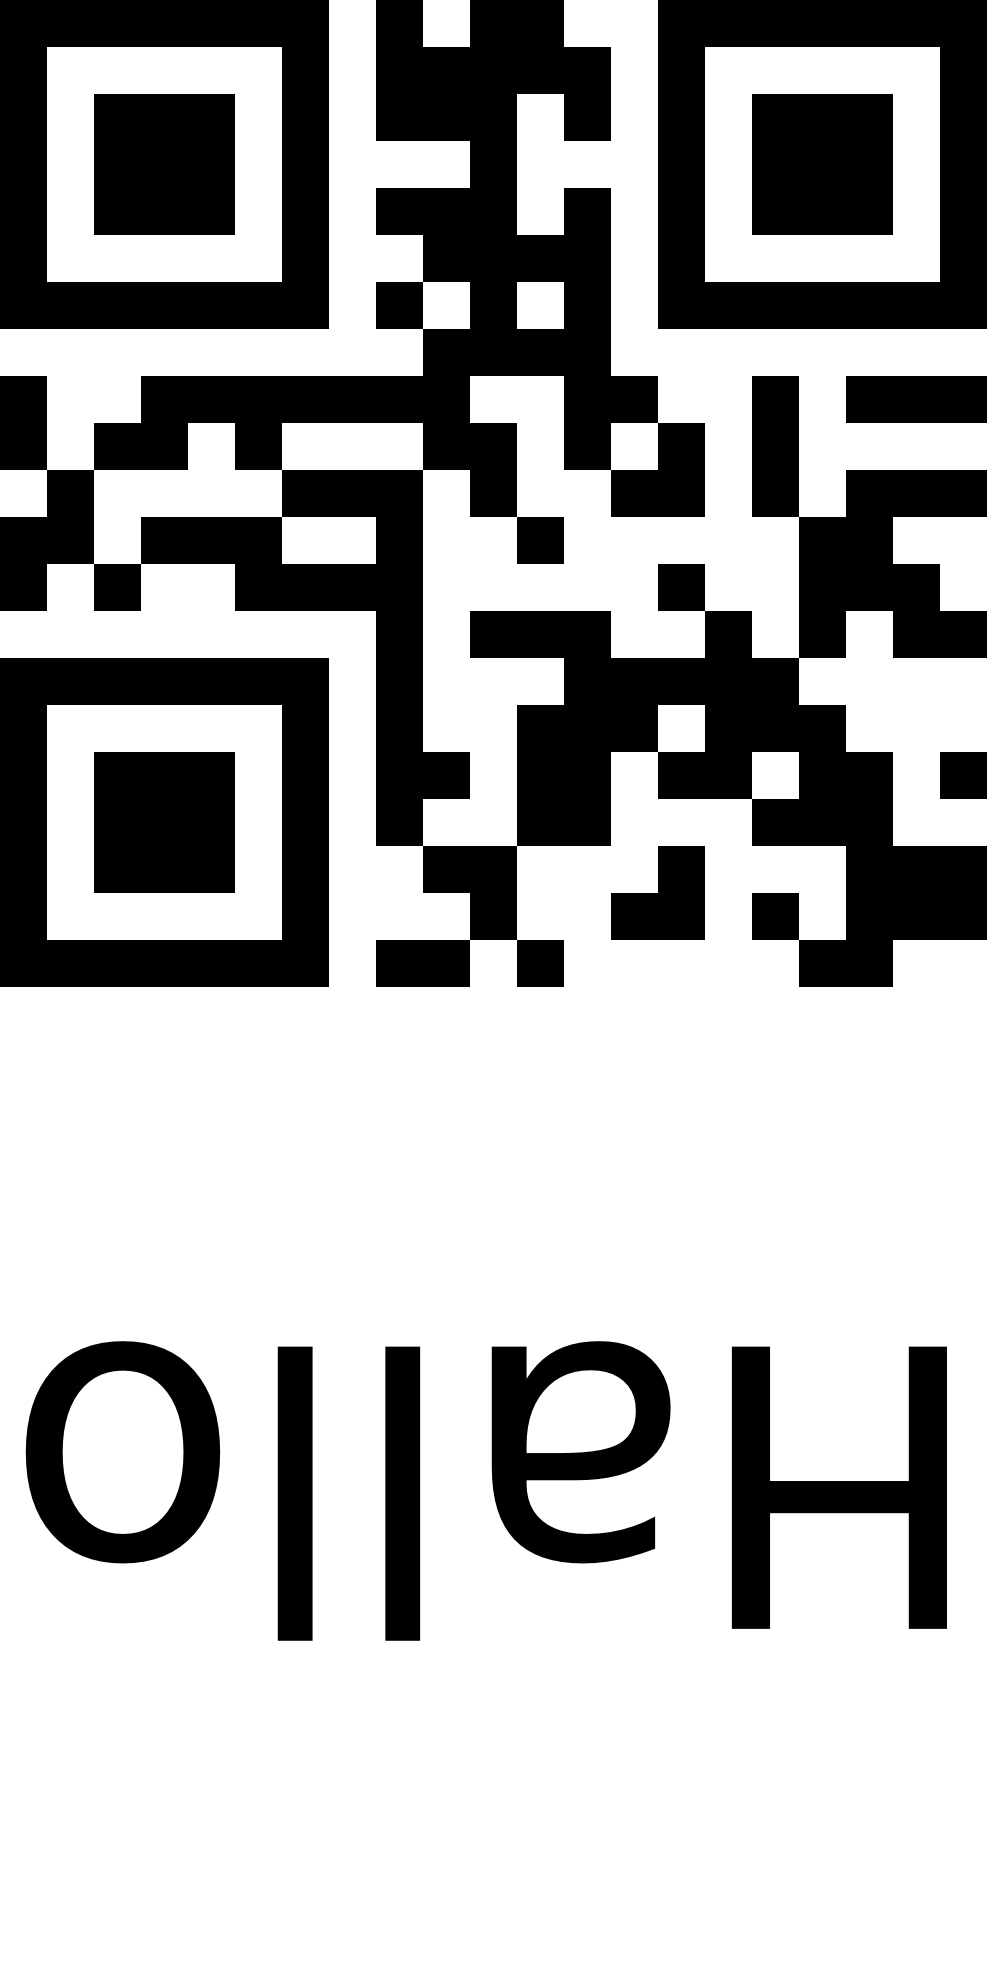
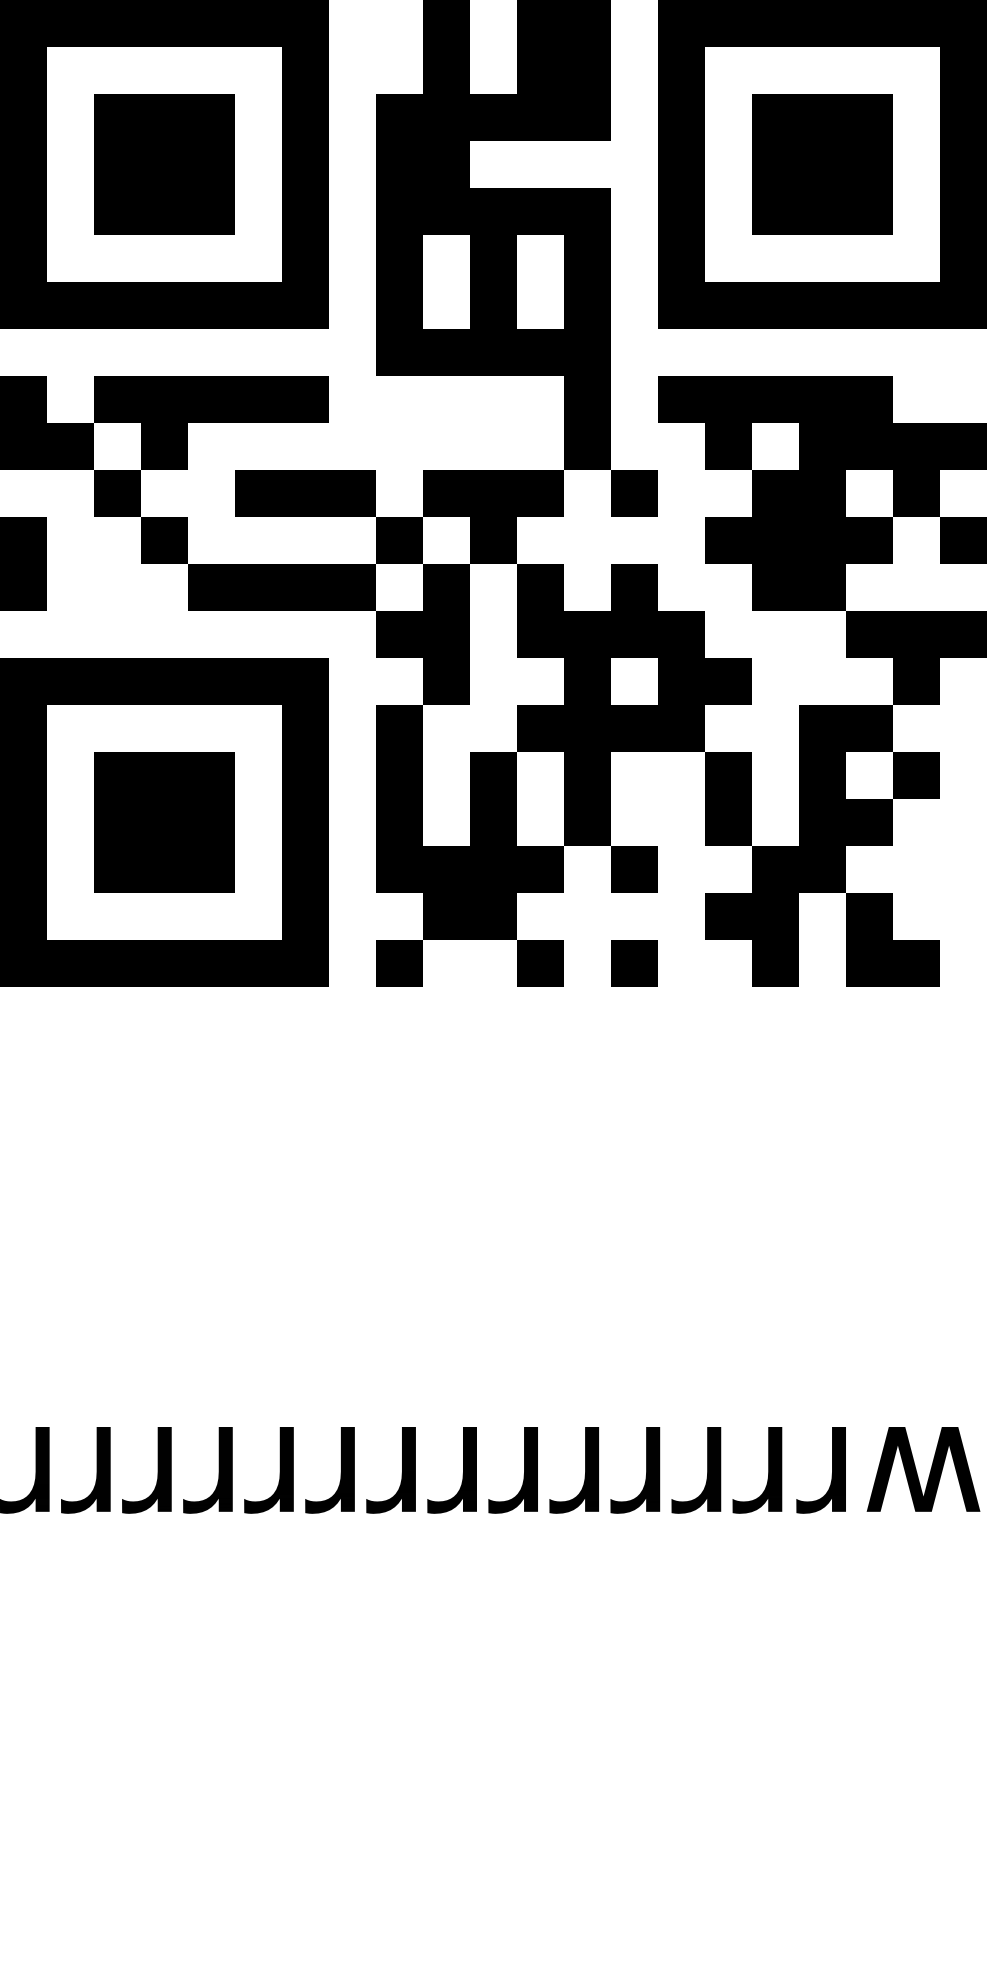
update dependencies, add label preview functionality, and adjust project edition

diff --git a/src/index.html b/src/index.html
@@ -6,20 +6,47 @@
 </head>
 <body>
 <div style="justify-content: center; display: flex; flex-direction: column; align-items: center;">
-    <img alt="preview" src="/last" width="20%"/>
+    <img alt="preview" id="prev" src="/last" width="20%"/>
     <div style="justify-content: center; display: flex; flex-direction: column; align-items: center;">
         <label for="labelText">Label Text:</label>
         <input id="labelText" name="labelText" required type="text">
         <label for="labelQrText">QR Code Text:</label>
         <input id="labelQrText" name="labelQrText" required type="text">
         <button id="submit" type="submit">Print Label</button>
+        <button id="preview">Preview</button>
     </div>
 </div>
 </body>
 
 
 <script>
+    const prev = document.getElementById('prev');
+    prev.src = "/last?" + new Date().getTime();
+
     const submit = document.getElementById('submit');
+    const preview = document.getElementById('preview');
+
+    preview.addEventListener('click', (event) => {
+        event.preventDefault();
+        const labelText = document.getElementById('labelText').value;
+        const labelQrText = document.getElementById('labelQrText').value;
+        fetch('/preview', {
+            method: 'POST',
+            headers: {
+                'Content-Type': 'application/json'
+            },
+            body: JSON.stringify({name: labelText, qr: labelQrText})
+        }).then(response => {
+            if (response.ok) {
+                window.location.reload();
+            } else {
+                alert('Failed to print label.');
+            }
+        }).catch(error => {
+            console.error('Error:', error);
+            alert('An error occurred while printing the label.');
+        });
+    });
 
     submit.addEventListener('click', (event) => {
         event.preventDefault();

diff --git a/src/main.rs b/src/main.rs
@@ -2,6 +2,7 @@ use ab_glyph::{FontRef, PxScale};
 use actix_files::NamedFile;
 use clap;
 use qrcode::QrCode;
+use std::process::Command;
 
 use actix_web::{get, post, web, App, HttpResponse, HttpServer, Responder};
 use clap::Parser;
@@ -25,6 +26,77 @@ async fn index() -> impl Responder {
 #[get("/last")]
 async fn last() -> impl Responder {
     NamedFile::open("./label.png")
+}
+
+#[post("/preview")]
+async fn preview(json: web::Json<LabelInfo>) -> impl Responder {
+    let mut width = 1000;
+
+    let bits = json.qr.clone();
+    let code = QrCode::new(bits).unwrap();
+
+    let qr = code
+        .render::<Luma<u8>>()
+        .quiet_zone(false)
+        .max_dimensions(width, width)
+        .build();
+
+    let raw_qr = qr.as_raw();
+    let qr_dim = qr.height();
+    width = qr_dim;
+
+    let mut label_image_buf = ImageBuffer::new(width, width * 2);
+
+    let font = FontRef::try_from_slice(include_bytes!("../DejaVuSans.ttf")).unwrap();
+
+    let mut s = width as f32;
+    let mut scale = PxScale::from(s);
+    while text_size(scale, &font, &json.name).0 > width {
+        let new_size = s * 0.99;
+        if new_size < 1.0 {
+            break;
+        }
+        s = new_size;
+        scale = PxScale::from(s);
+    }
+
+    let final_size = text_size(scale, &font, &json.name);
+    let mut text_image = ImageBuffer::new(width, width * 2);
+
+    draw_text_mut(
+        &mut text_image,
+        image::Rgb([255u8, 255u8, 255u8]),
+        ((width - final_size.0) / 2) as i32,
+        (width + width / 2 - final_size.1 / 2) as i32,
+        scale,
+        &font,
+        &json.name,
+    );
+    let raw_text = text_image.pixels().collect::<Vec<_>>();
+
+    let height = width * 2;
+
+    label_image_buf
+        .enumerate_pixels_mut()
+        .for_each(|(x, y, pixel)| {
+            if y < width {
+                let mut raw = 255u8;
+                let pos = y * width + x;
+                if pos < raw_qr.len() as u32 {
+                    raw = raw_qr[(x + width * y) as usize];
+                }
+
+                *pixel = image::Rgb([raw, raw, raw]);
+            } else {
+                let col = 255u8
+                    - raw_text[(width - x + width * (height - y + width - 1) - 1) as usize].0[0];
+                *pixel = image::Rgb([col, col, col]);
+            }
+        });
+
+    label_image_buf.save("./label.png").unwrap();
+
+    HttpResponse::Ok().body("Label created!")
 }
 
 #[post("/label")]
@@ -95,17 +167,19 @@ async fn label(json: web::Json<LabelInfo>) -> impl Responder {
 
     label_image_buf.save("./label.png").unwrap();
 
+    let mut cmd = Command::new("lprint");
+
+    cmd.arg("label.png").spawn().unwrap();
+
     HttpResponse::Ok().body("Label created!")
 }
 
 #[derive(Parser, Debug)]
 #[command(version, about, long_about = None)]
 struct Args {
-    /// Name of the person to greet
     #[arg(long, default_value = "127.0.0.1")]
     host: String,
 
-    /// Number of times to greet
     #[arg(short, long, default_value_t = 8080)]
     port: u16,
 }
@@ -116,8 +190,14 @@ async fn main() -> std::io::Result<()> {
 
     println!("Starting server at http://{}:{}", args.host, args.port);
 
-    HttpServer::new(|| App::new().service(label).service(last).service(index))
-        .bind((args.host.as_str(), args.port))?
-        .run()
-        .await
+    HttpServer::new(|| {
+        App::new()
+            .service(label)
+            .service(last)
+            .service(index)
+            .service(preview)
+    })
+    .bind((args.host.as_str(), args.port))?
+    .run()
+    .await
 }

diff --git a/README.md b/README.md
@@ -1,0 +1,3 @@
+sudo --preserve-env=HOME,PATH,RUSTUP_HOME,CARGO_HOME,RUSTUP_TOOLCHAIN \
+env RUSTUP_TOOLCHAIN=stable \
+/home/rebix/.cargo/bin/cross build --release --target armv7-unknown-linux-gnueabihf
